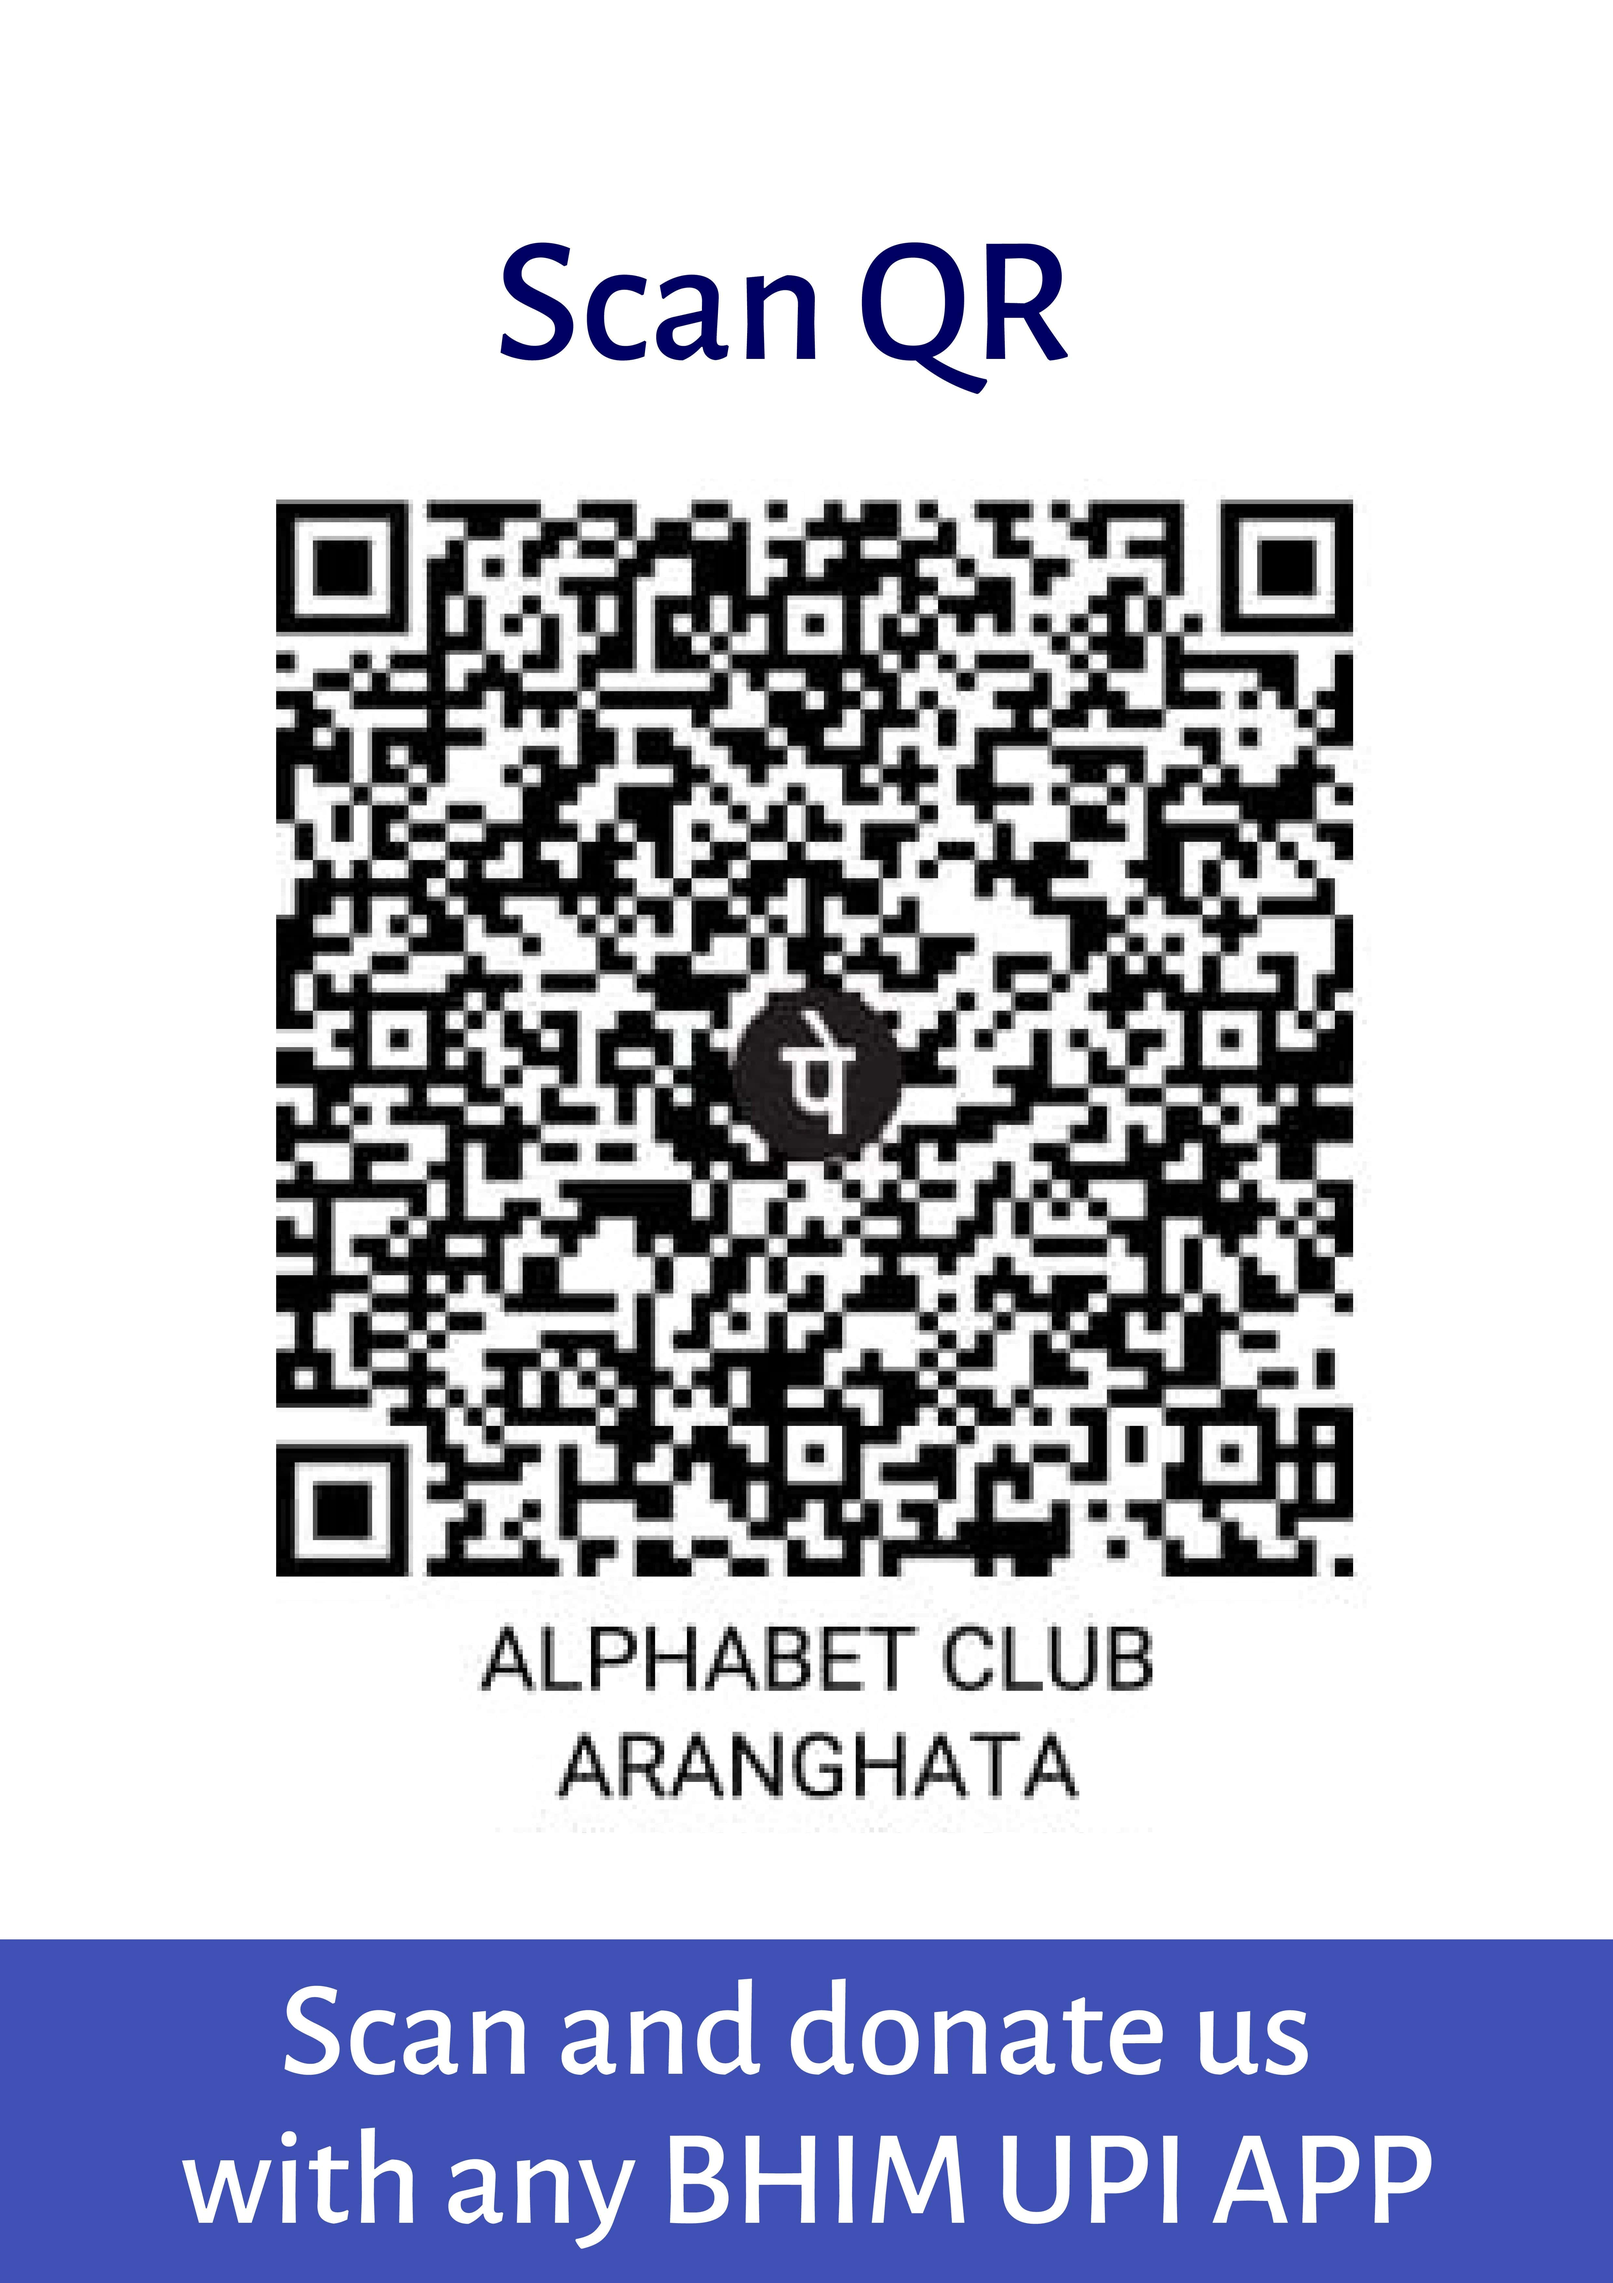
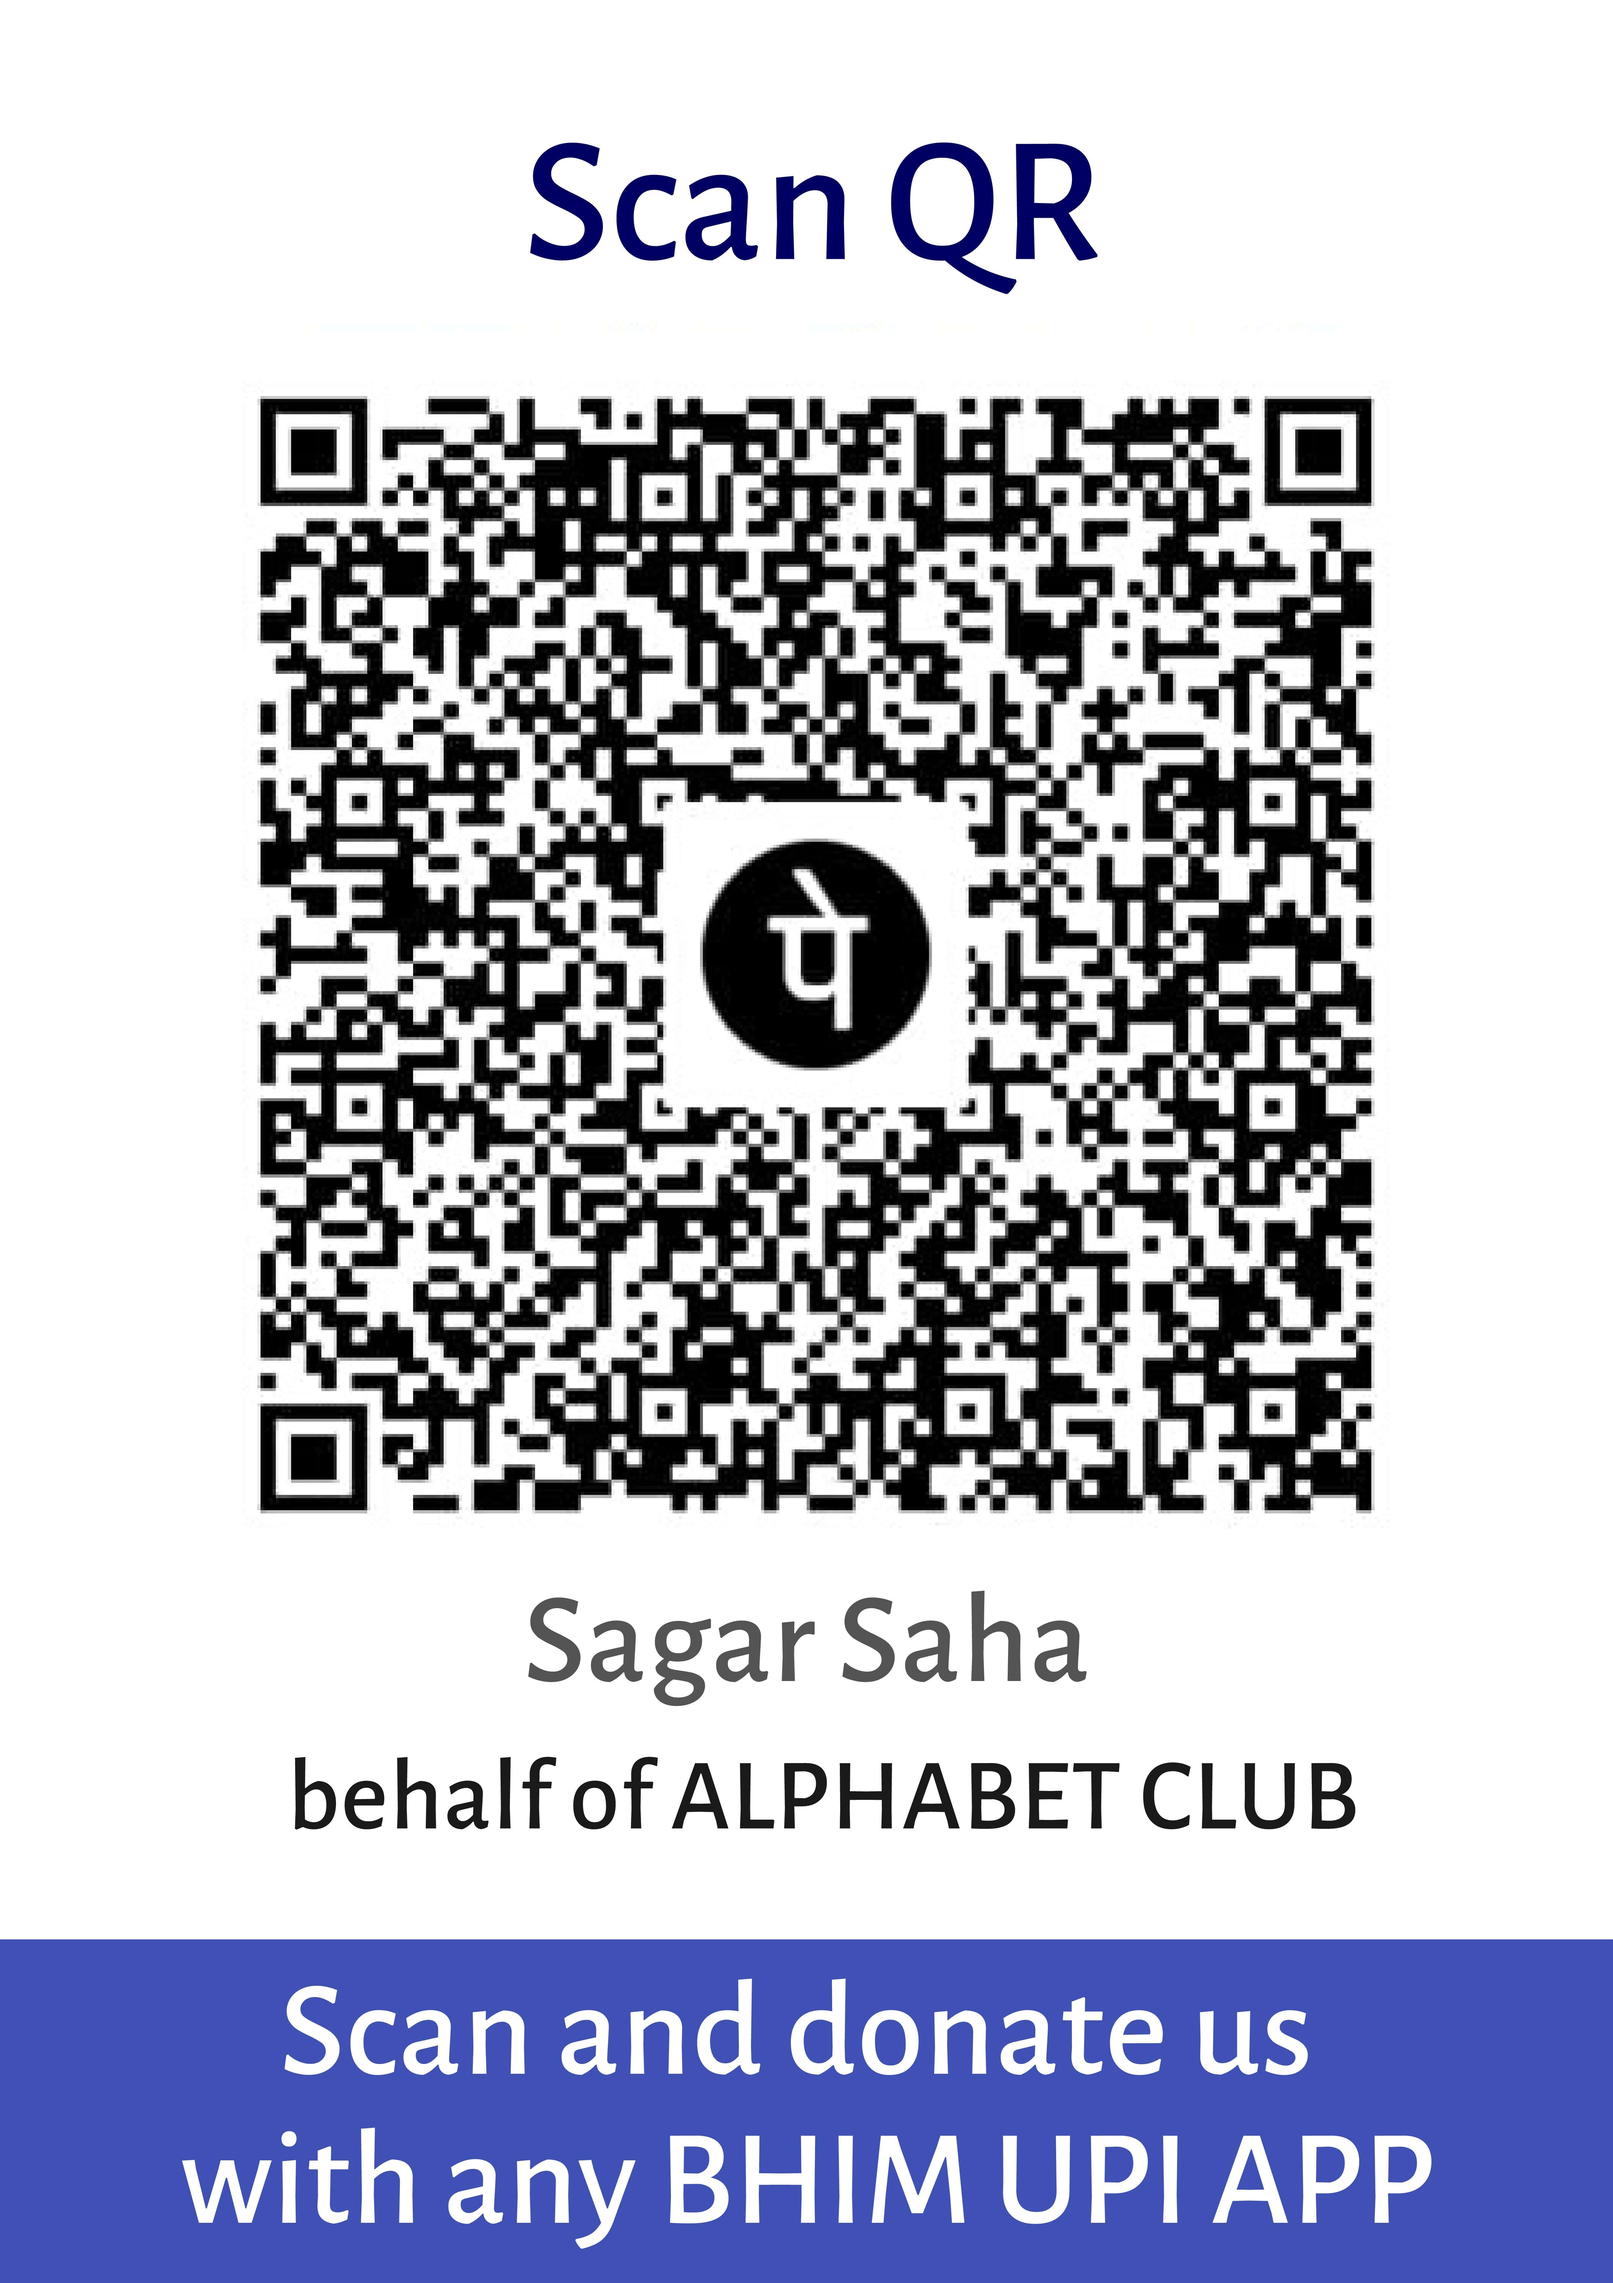
Submit

Changed region(s): [[0.1553, 0.0624, 0.8695, 0.8116], [0.7143, 0.7491, 0.8385, 0.8116]]

diff --git a/donate_us.html b/donate_us.html
@@ -83,28 +83,63 @@
                      <img src="images/helping_hand.jpg" class="img-fluid " alt="Responsive image">
                     </div>
                     <h5 >Event planning and management become eaiser when some of you supportive hands arise. Kindly give your support by donating little amount of money to us.</h5>
-                     <p>Donate money via any BHIM UPI app from your Smartphone after availability.</p>
-                   
+                     <p>Donate money via any BHIM UPI app from your smartphone. </p>
+                    
+                    
                       
 						
                     </div><br>
-                     	<div class="container-fluid">
-                                <div class="col-lg-12 col-12">
-                                    <img src="images/Wait_for_that.png" class="img-fluid " alt="Responsive image"></div></div>
-						<br>
-                 <h5 class="text-center">The payment details section will be available shortly. Waiting for that will be appreciated.</h5>
-                    
-               
                 
+                <div class="container payment">
+                    <div class="row justify-content-center">
+                        
+                   
+                        
+                        
+                         <ul class="actions">
+                             
+                             <button type="button" class="button primary fit btn-copy js-tooltip js-copy"data-toggle="tooltip" data-placement="bottom" data-copy="7797241414@ybl" title="Copy to clipboard">7797241414@ybl &nbsp;(Click to Copy UPI)</button>
+								
+							</ul>
+                        
+                        
+                        
+    
+    
+  
+                    </div></div> 
+                <br>
+                <h2 class="text-center">OR</h2>
                 
-              
+                <div class="container payment">  
+                 <div class="row justify-content-center">
+                <div class="col-lg-4 col-10">
+                           <img src="images/Scan%20QR.jpg" class="img-fluid " alt="Responsive image">
+                           </div>
+                       </div>
+                </div>
                 </section>
-                      
-           
-				 <hr class="my-4">
-                               <p class="text-center">Webpage is under developing. Many more to go.</p>
-           
+                       <section id="five">
+                            <h2 class="tag">Instruction of payment</h2>
+                           <div class="container payment_intruction ">
+                               <h5>Method 1</h5>
+  
+  <p >> Open any BHIM UPI app from your smartphone. <br> > Select UPI Money Transfer. <br> > Enter our given UPI CODE.<br>> Send your donation amount to us.</p>
+  <hr class="my-4">
+                               <h5>Method 2</h5>
+  
+  <p >> Open any BHIM UPI app from your smartphone. <br> > Select Pay option. <br> > Scan given QR CODE(UPI).<br>> Send your donation amount to us.</p>
+  <p>We will appreciate your name by shouting out on our facebook page. For that you need to send us a email where you can attach your donation payment slip screenshot or payment information. <br>Email id: <strong>alphabetclub2010@gmail.com</strong>. Thank you.</p>
+  <ul class="actions">
+								<li><a href="index.html" class="button primary">GO TO HOME PAGE</a></li>
+								
+							</ul>
+</div>
+                           <br>
                         <p class="text-center">&copy;2019 Alphabet Club</p>
+                </section>
+           
+				
 
 			</div>
 
